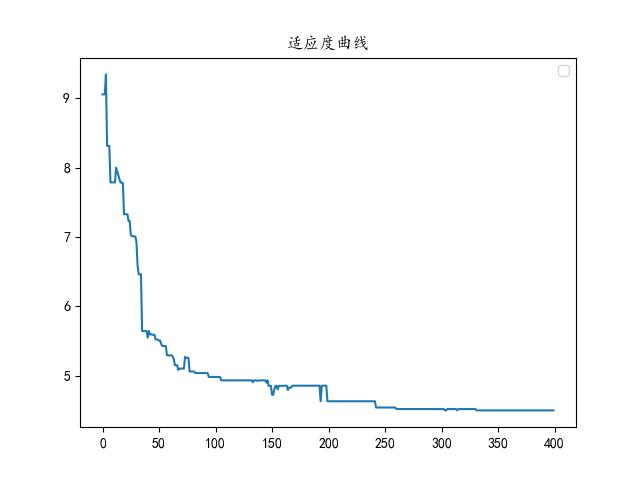
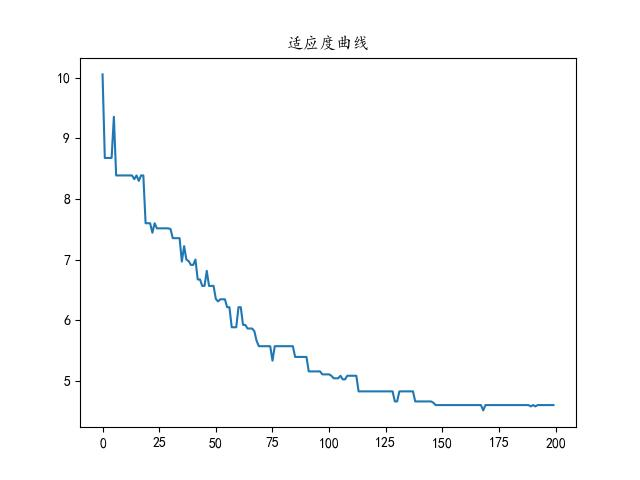
23-6-2

diff --git a/Individual.py b/Individual.py
@@ -1,85 +1,12 @@
 # 个体类
 # 注意，在其它应用场景下，下面四个函数应重写
-from constant import gene_len,survivors_num,mutate_prob
-import random
-from copy import deepcopy
-from utility import city_dist_mat
-
-# 自定义适应度函数
-def my_fitness(gene):
-    fitness = 0
-    for i in range(gene_len - 1):
-        # 起始城市和目标城市
-        fitness += city_dist_mat(gene[i], gene[i + 1])
-    # 最后还要回来(转一圈)
-    fitness += city_dist_mat(gene[-1], gene[0])
-    return fitness
-
-# 生成符合条件的随机基因的列表
-def my_gen_gene():
-    gene = [i for i in range(gene_len)]
-    random.shuffle(gene)
-    return gene
-
-# 自定义交换基因的函数,因为这里解决的是旅行商问题，基因里每个数字只能出现一次，所以比较复杂
-def my_cross(individual_list):
-    # 新基因
-    new_individual_list = []
-    # 先打乱再进行基因重组
-    random.shuffle(individual_list)
-    # 这里步长为2,正好对应父母亲基因进行重组
-    for i in range(0, survivors_num - 1, 2):
-        # 要进行交换的基因 注意这里用的是deepcopy,不然的话会改变原数组(把基因重组、变异后的目标与原样本放在一起进行筛选)
-        gene_first = deepcopy(individual_list[i].gene)
-        gene_second = deepcopy(individual_list[i + 1].gene)
-        # 随机生成要交换基因的首尾,保证后者大于前者,进行交换
-        index_begin = random.randint(0, gene_len - 2)
-        index_end = random.randint(index_begin, gene_len - 1)
-        # 记录下初始基因对应的位置(储存为字典),为了下一步的操作
-        dict_first = {value: index for index, value in enumerate(gene_first)}
-        dict_second = {value: index for index, value in enumerate(gene_second)}
-
-        # 交叉 注意,这里如果要交换的基因片段在另一部分已经有的话,相当于把另一个基因要重复的地方交换
-        # e,g
-        # [1,4,5,2,3] 与 [4,1,3,2,5]交换中间的三个基因
-        # 直接交换的话,基因里面会出现重复元素
-        # 1,3,2这是第二个基因“移植到”第一个基因上的
-        # 首先在第一个基因里查找1, 发现不在交换的片段 于是1与4交换位置
-        # 基因变为 [4,1,5,2,3]
-        # 再查找3 发现基因一的3的index也在交换之外 那就交换基因1里5,3位置变为
-        # [4,1,3,2,5]
-        # 最后 2与2交换
-        for j in range(index_begin, index_end):
-            value1, value2 = gene_first[j], gene_second[j]
-            pos1, pos2 = dict_first[value2], dict_second[value1]
-            gene_first[j], gene_first[pos1] = gene_first[pos1], gene_first[j]
-            gene_second[j], gene_second[pos2] = gene_second[pos2], gene_second[
-                j]
-            dict_first[value1], dict_first[value2] = pos1, j
-            dict_second[value1], dict_second[value2] = j, pos2
-        new_individual_list.append(Individual(gene_first))
-        new_individual_list.append(Individual(gene_second))
-    return new_individual_list
-
-# 自定义基因变异的函数,这里使用的变异策略是直接翻转
-def my_mutate(new_individual_list):
-    for individual in new_individual_list:
-        # 触发变异概率的话,基因进行翻转
-        if random.random() < mutate_prob:
-            # 这里采用对某个基因片段做反转的做法
-            old_gene = deepcopy(individual.gene)
-            index_begin = random.randint(0, gene_len - 2)
-            index_end = random.randint(index_begin, gene_len - 1)
-            # 要变异的片段
-            gene_mutate = old_gene[index_begin:index_end]
-            # 因为在python里,列表是引用类型,这里的变异,是对区间翻转
-            gene_mutate.reverse()
-            individual.gene = old_gene[:index_begin] + \
-                gene_mutate + old_gene[index_end:]
+from fitness import my_fitness
+from gen_gene import my_gen_gene
 
 
+# 个体类
 class Individual:
-    # 默认的话是随机生成序列
+    # 依次传入基因长度、基因的适应度函数、生成基因的策略、基因（这个参数不传的话随机生成一个个体，基因是随机的）
     def __init__(self, gene=None):
         if gene is None:
             gene = my_gen_gene()

diff --git a/cross.py b/cross.py
@@ -1,0 +1,48 @@
+# 基因重组的策略
+import random
+from copy import deepcopy
+from typing import List
+
+from constant import gene_len, survivors_num
+from individual import Individual
+
+
+# 自定义交换基因的函数,因为这里解决的是旅行商问题，基因里每个数字只能出现一次，所以比较复杂
+def my_cross(individual_list: List[Individual]):
+    # 新基因
+    new_individual_list = []
+    # 先打乱再进行基因重组
+    random.shuffle(individual_list)
+    # 这里步长为2,正好对应父母亲基因进行重组
+    for i in range(0, survivors_num - 1, 2):
+        # 要进行交换的基因 注意这里用的是deepcopy,不然的话会改变原数组(把基因重组、变异后的目标与原样本放在一起进行筛选)
+        gene_first = deepcopy(individual_list[i].gene)
+        gene_second = deepcopy(individual_list[i + 1].gene)
+        # 随机生成要交换基因的首尾,保证后者大于前者,进行交换
+        index_begin = random.randint(0, gene_len - 2)
+        index_end = random.randint(index_begin, gene_len - 1)
+        # 记录下初始基因对应的位置(储存为字典),为了下一步的操作
+        dict_first = {value: index for index, value in enumerate(gene_first)}
+        dict_second = {value: index for index, value in enumerate(gene_second)}
+
+        # 交叉 注意,这里如果要交换的基因片段在另一部分已经有的话,相当于把另一个基因要重复的地方交换
+        # e,g
+        # [1,4,5,2,3] 与 [4,1,3,2,5]交换中间的三个基因
+        # 直接交换的话,基因里面会出现重复元素
+        # 1,3,2这是第二个基因“移植到”第一个基因上的
+        # 首先在第一个基因里查找1, 发现不在交换的片段 于是1与4交换位置
+        # 基因变为 [4,1,5,2,3]
+        # 再查找3 发现基因一的3的index也在交换之外 那就交换基因1里5,3位置变为
+        # [4,1,3,2,5]
+        # 最后 2与2交换
+        for j in range(index_begin, index_end):
+            value1, value2 = gene_first[j], gene_second[j]
+            pos1, pos2 = dict_first[value2], dict_second[value1]
+            gene_first[j], gene_first[pos1] = gene_first[pos1], gene_first[j]
+            gene_second[j], gene_second[pos2] = gene_second[pos2], gene_second[
+                j]
+            dict_first[value1], dict_first[value2] = pos1, j
+            dict_second[value1], dict_second[value2] = j, pos2
+        new_individual_list.append(Individual(gene_first))
+        new_individual_list.append(Individual(gene_second))
+    return new_individual_list

diff --git a/mutate.py b/mutate.py
@@ -1,0 +1,22 @@
+# 变异的策略
+import random
+from copy import deepcopy
+
+from constant import gene_len, mutate_prob
+
+
+# 自定义基因变异的函数,这里使用的变异策略是直接翻转
+def my_mutate(new_individual_list):
+    for individual in new_individual_list:
+        # 触发变异概率的话,基因进行翻转
+        if random.random() < mutate_prob:
+            # 这里采用对某个基因片段做反转的做法
+            old_gene = deepcopy(individual.gene)
+            index_begin = random.randint(0, gene_len - 2)
+            index_end = random.randint(index_begin, gene_len - 1)
+            # 要变异的片段
+            gene_mutate = old_gene[index_begin:index_end]
+            # 因为在python里,列表是引用类型,这里的变异,是对区间翻转
+            gene_mutate.reverse()
+            individual.gene = old_gene[:index_begin] + \
+                gene_mutate + old_gene[index_end:]

diff --git a/constant.py b/constant.py
@@ -1,13 +1,11 @@
 # 遗传算法的一些基本参数
 
-# 基因长度
-gene_len = 25
-# 个体数(每一轮保存的个体数)
+# 每一轮保存的个体数
 survivors_num = 60
 # 迭代次数
-iteration_time = 400
+iteration_time = 200
 # 变异概率
-mutate_prob = 0.25
+mutate_prob = 0.2
 # 锦标赛小组数(详情请了解遗传算法里的锦标赛筛选机制)
 group_num = 10
 # 锦标赛筛选机制中,每小组的出线人数比例(剩下的被淘汰)
@@ -28,3 +26,6 @@ city_pos = [[0.34373988, 0.28799359], [0.59614005, 0.20891475],
             [0.2893925, 0.3846537], [0.38730741, 0.20597485],
             [0.18536116, 0.34750257], [0.69820574, 0.16041619],
             [0.31628208, 0.50875925]]
+
+# 基因长度(这里就是城市的个数)
+gene_len = len(city_pos)

diff --git a/Plot.py b/Plot.py
@@ -2,7 +2,7 @@
 import matplotlib.pyplot as plt
 
 from constant import city_pos
-from Ga import Ga
+from ga import Ga
 
 # 解决中文显示问题(windows上)
 plt.rcParams['font.sans-serif'] = ['KaiTi']  # 指定默认字体
@@ -24,7 +24,7 @@ class Plot:
         fig = plt.figure()
         plt.plot(self.ga.fitness_list)
         plt.title(u"适应度曲线")
-        plt.legend()
+        # plt.legend()
         plt.savefig("./imgs/fitness.jpg")
         fig.show()
 
@@ -39,6 +39,6 @@ class Plot:
         y.append(city_pos[best.gene[0]][1])
         plt.plot(x, y, 'o-r')
         plt.title(u"路线")
-        plt.legend()
+        # plt.legend()
         plt.savefig("./imgs/plot_tsp.jpg")
         fig.show()

diff --git a/main.py b/main.py
@@ -1,6 +1,5 @@
-from Ga import Ga
-from Plot import Plot
-
+from ga import Ga
+from plot import Plot
 
 # 实例化遗传算法
 ga = Ga()
@@ -9,12 +8,14 @@ ga.train()
 # 整个进化历程中最优秀的个体
 result = ga.best
 # 输出最终最优秀的个体，以及它的适应度
+print("最好的基因为：", end='')
 print(result.gene)
+print("最好的基因的适应度为：", end='')
 print(result.fitness)
 # 历代最优秀的个体以及它们的适应度(可以酌情使用)
-best_list=ga.best_list
-fitness_list=ga.fitness_list
+best_list = ga.best_list
+fitness_list = ga.fitness_list
 
 # 绘图
-my_plot=Plot(ga)
+my_plot = Plot(ga)
 my_plot.plot_all()

diff --git a/fitness.py b/fitness.py
@@ -1,0 +1,13 @@
+from constant import gene_len
+from utility import city_dist_mat
+
+
+# 自定义适应度函数
+def my_fitness(gene):
+    fitness = 0
+    for i in range(gene_len - 1):
+        # 起始城市和目标城市
+        fitness += city_dist_mat(gene[i], gene[i + 1])
+    # 最后还要回来(转一圈)
+    fitness += city_dist_mat(gene[-1], gene[0])
+    return fitness

diff --git a/Ga.py b/Ga.py
@@ -4,7 +4,9 @@ from copy import deepcopy
 from typing import List
 
 from constant import group_num, group_num_rate, iteration_time, survivors_num
-from Individual import Individual, my_cross, my_mutate
+from cross import my_cross
+from individual import Individual
+from mutate import my_mutate
 
 
 # 定义算法的具体流程

diff --git a/gen_gene.py b/gen_gene.py
@@ -1,0 +1,11 @@
+# 生成基因
+import random
+
+from constant import gene_len
+
+
+# 生成符合条件的随机基因的列表
+def my_gen_gene():
+    gene = [i for i in range(gene_len)]
+    random.shuffle(gene)
+    return gene

diff --git a/README.md b/README.md
@@ -1,9 +1,10 @@
-# 遗传算法解决旅行商（TSP）问题
-## 参考视频地址
+# 遗传算法解决旅行商（TSP）问题,以及求函数最值
+## 旅行商问题
+### 参考视频
 <https://www.bilibili.com/video/BV17Z4y1w7qF>
-## 参考项目
+### 参考项目
 <https://github.com/zifeiyu0531/ga-tsp>
-## 效果
+### 效果
 * 输入：
 ```python
 # 城市坐标列表
@@ -38,8 +39,13 @@
     ![avatar](./imgs/fitness.jpg)
 
     ![avatar](./imgs/plot_tsp.jpg)
+* 注意：因为tsp是经典的np难问题，结果可能是不一样的
+
+## 函数最值问题
+
 ## 代码结构
 ```
+imgs: 储存图片的文件
 constant.py：各参数配置
 Ga.py：遗传算法实现
 main.py：程序入口
